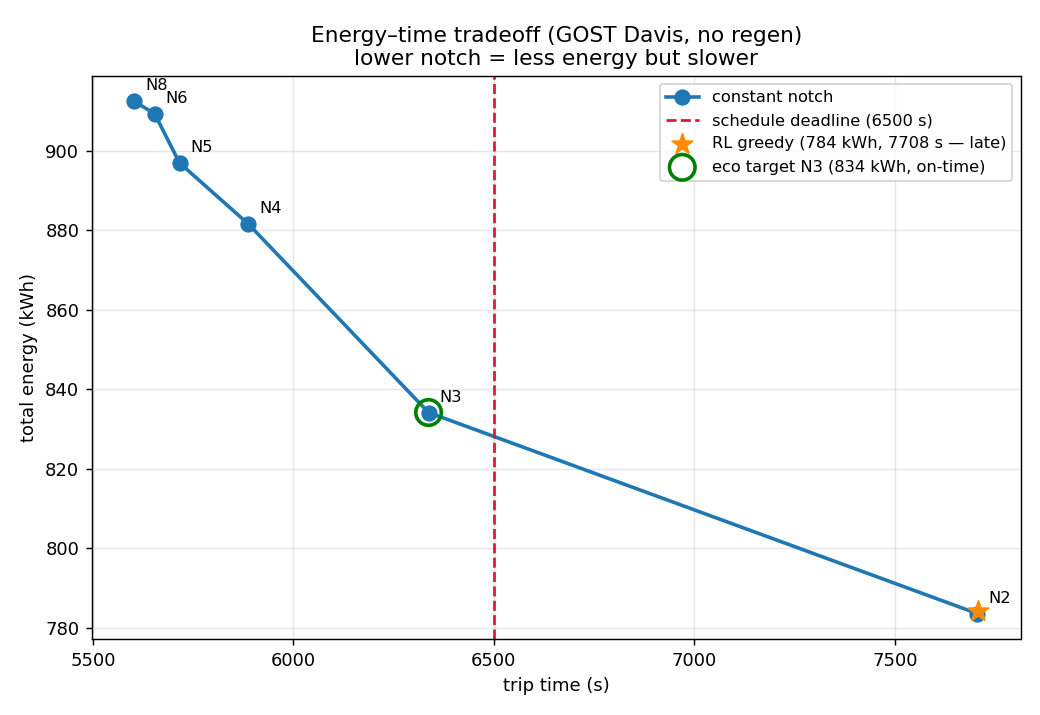
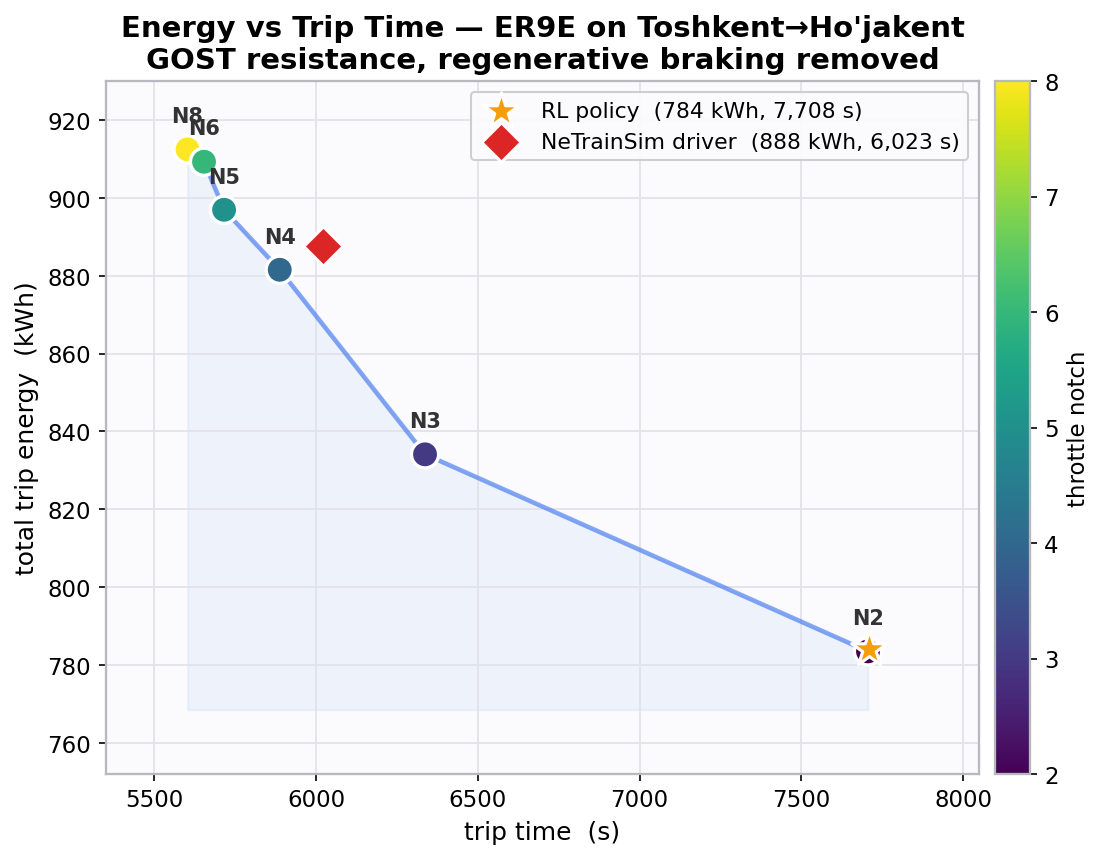
regenerating plots

diff --git a/rl/make_plots.py b/rl/make_plots.py
@@ -1,29 +1,34 @@
 """
-Generate summary plots for the train-energy RL project (current physics:
-GOST Davis + no regen). Outputs PNGs into results/plots/.
+Summary plots for the train-energy project (current physics: GOST Davis + no regen).
+Outputs PNGs into results/plots/.
 
-  1. energy_time_tradeoff.png  — constant-notch energy vs trip-time Pareto curve,
-     deadline, and where the RL greedy policy landed.
-  2. rl_policy_profile.png     — RL greedy policy: speed (vs speed limit), notch,
-     and track grade along the route.
-  3. training_curve.png        — test/best reward per epoch for the final run.
+  1. energy_time_tradeoff.png  — polished energy-vs-trip-time curve over constant
+     notches, with the RL greedy policy and NeTrainSim's native driver overlaid.
+  2. netrainsim_trajectory.png — the trajectory NeTrainSim itself produces (the data
+     its GUI plots): speed vs limit, notch, tractive/resistance forces, power,
+     cumulative energy and grade along the route.
+  3. rl_policy_profile.png     — RL greedy policy speed/notch/grade along the route.
+  4. training_curve.png        — test/best reward per epoch for the final run.
 
 Usage:
     source venv/bin/activate
     python rl/make_plots.py
 """
 import csv
+import glob
 import os
 import re
 
 import matplotlib
 matplotlib.use("Agg")
 import matplotlib.pyplot as plt
+from matplotlib.ticker import MultipleLocator
 import numpy as np
 
 _REPO = os.path.dirname(os.path.dirname(os.path.abspath(__file__)))
 LINKS = os.path.join(_REPO, "data", "netrainsim_v2", "linksFile_v2_fixed_speed.dat")
 PROFILE = os.path.join(_REPO, "results", "notch_profile.csv")
+NTS_GLOB = os.path.join(_REPO, "NeTrainSim-adjusted", "res", "trainTrajectory_*.csv")
 OUTDIR = os.path.join(_REPO, "results", "plots")
 os.makedirs(OUTDIR, exist_ok=True)
 
@@ -31,12 +36,32 @@ os.makedirs(OUTDIR, exist_ok=True)
 NOTCH = [8, 6, 5, 4, 3, 2]
 STEPS = [5603, 5654, 5716, 5888, 6337, 7706]
 ENERGY = [912.47, 909.28, 896.94, 881.53, 834.13, 783.52]
-DEADLINE = 6500
-RL_STEPS, RL_ENERGY = 7708, 784.16   # latest greedy eval (pace-penalty run)
+RL_STEPS, RL_ENERGY = 7708, 784.16       # RL greedy eval (pace-penalty run)
+
+# ── shared "advanced" styling ────────────────────────────────────────────────
+plt.rcParams.update({
+    "figure.facecolor": "white",
+    "axes.facecolor": "#fbfbfd",
+    "axes.edgecolor": "#b8b8c0",
+    "axes.linewidth": 1.1,
+    "axes.grid": True,
+    "grid.color": "#e3e3ea",
+    "grid.linewidth": 0.9,
+    "font.size": 11,
+    "font.family": "DejaVu Sans",
+    "axes.titlesize": 14,
+    "axes.titleweight": "bold",
+    "axes.labelsize": 12,
+    "axes.labelweight": "medium",
+    "legend.framealpha": 0.95,
+    "legend.edgecolor": "#cccccc",
+    "savefig.dpi": 150,
+    "savefig.bbox": "tight",
+})
+ACCENT, RLC, NTSC = "#2563eb", "#f59e0b", "#dc2626"
 
 
 def load_links():
-    """cumulative distance -> (speed_limit, grade_pct) along the route."""
     cum, spd, grade = [0.0], [], []
     with open(LINKS) as f:
         f.readline(); f.readline()
@@ -44,8 +69,7 @@ def load_links():
             p = line.split()
             if len(p) < 8:
                 continue
-            length = float(p[3]); speed = float(p[4]); g = float(p[6])
-            cum.append(cum[-1] + length); spd.append(speed); grade.append(g)
+            cum.append(cum[-1] + float(p[3])); spd.append(float(p[4])); grade.append(float(p[6]))
     return np.array(cum), np.array(spd), np.array(grade)
 
 
@@ -55,80 +79,135 @@ def load_profile():
         for row in csv.DictReader(f):
             speed.append(float(row["speed_mps"])); notch.append(int(row["notch"]))
     speed = np.array(speed)
-    dist = np.cumsum(speed)          # 1 s per row → travelled distance (m)
-    return dist, speed, np.array(notch)
+    return np.cumsum(speed), speed, np.array(notch)
+
+
+def load_nts():
+    files = sorted(glob.glob(NTS_GLOB), key=os.path.getmtime)
+    if not files:
+        return None
+    rows = list(csv.DictReader(open(files[-1])))
+    g = lambda k: np.array([float(r[k]) for r in rows])
+    return {
+        "dist": g("TravelledDistance_m") / 1000.0,
+        "speed": g("Speed_mps"),
+        "limit": g("LinkMaxSpeed_mps"),
+        "notch": g("FirstLocoNotchPosition"),
+        "tractive": g("tractiveForce_N") / 1000.0,
+        "resist": g("ResistanceForces_N") / 1000.0,
+        "power": g("CurrentUsedTractivePower_kw"),
+        "energy_cum": np.cumsum(g("EnergyConsumption_KWH")),
+        "grade": g("GradeAtTip_Perc"),
+        "steps": len(rows),
+    }
 
 
 def load_training(log_path):
-    epoch, test, best = [], [], []
+    e, t, b = [], [], []
     pat = re.compile(r"Epoch #(\d+): test_reward: (-?[0-9.]+).*best_reward: (-?[0-9.]+)")
-    with open(log_path) as f:
-        for line in f:
-            m = pat.search(line)
-            if m:
-                epoch.append(int(m.group(1))); test.append(float(m.group(2))); best.append(float(m.group(3)))
-    return np.array(epoch), np.array(test), np.array(best)
+    for line in open(log_path):
+        m = pat.search(line)
+        if m:
+            e.append(int(m.group(1))); t.append(float(m.group(2))); b.append(float(m.group(3)))
+    return np.array(e), np.array(t), np.array(b)
 
 
 def plot_tradeoff():
-    fig, ax = plt.subplots(figsize=(8, 5.5))
-    ax.plot(STEPS, ENERGY, "o-", color="#1f77b4", lw=2, ms=8, label="constant notch")
-    for n, s, e in zip(NOTCH, STEPS, ENERGY):
-        ax.annotate(f"N{n}", (s, e), textcoords="offset points", xytext=(6, 6), fontsize=9)
-    ax.axvline(DEADLINE, color="crimson", ls="--", lw=1.5, label=f"schedule deadline ({DEADLINE} s)")
-    ax.scatter([RL_STEPS], [RL_ENERGY], color="darkorange", s=140, marker="*",
-               zorder=5, label=f"RL greedy ({RL_ENERGY:.0f} kWh, {RL_STEPS} s — late)")
-    # highlight eco target (notch 3, the slowest still on-time)
-    ax.scatter([6337], [834.13], facecolors="none", edgecolors="green", s=200, lw=2,
-               zorder=5, label="eco target N3 (834 kWh, on-time)")
-    ax.set_xlabel("trip time (s)"); ax.set_ylabel("total energy (kWh)")
-    ax.set_title("Energy–time tradeoff (GOST Davis, no regen)\nlower notch = less energy but slower")
-    ax.grid(alpha=0.3); ax.legend(fontsize=9)
-    fig.tight_layout(); p = os.path.join(OUTDIR, "energy_time_tradeoff.png")
-    fig.savefig(p, dpi=130); plt.close(fig); return p
+    nts = load_nts()
+    fig, ax = plt.subplots(figsize=(9, 6))
+
+    # shaded region under the constant-notch frontier
+    ax.fill_between(STEPS, ENERGY, min(ENERGY) - 15, color=ACCENT, alpha=0.06, zorder=0)
+    ax.plot(STEPS, ENERGY, "-", color=ACCENT, lw=2.2, alpha=0.55, zorder=2)
+    sc = ax.scatter(STEPS, ENERGY, c=NOTCH, cmap="viridis", s=170, zorder=3,
+                    edgecolors="white", linewidths=1.6)
+    for n, s, en in zip(NOTCH, STEPS, ENERGY):
+        ax.annotate(f"N{n}", (s, en), textcoords="offset points", xytext=(0, 13),
+                    ha="center", fontsize=10, fontweight="bold", color="#333")
+    cbar = fig.colorbar(sc, ax=ax, pad=0.015); cbar.set_label("throttle notch", fontsize=11)
+
+    # RL greedy policy
+    ax.scatter([RL_STEPS], [RL_ENERGY], color=RLC, s=320, marker="*", zorder=5,
+               edgecolors="white", linewidths=1.5, label=f"RL policy  ({RL_ENERGY:.0f} kWh, {RL_STEPS:,} s)")
+    # NeTrainSim native driver
+    if nts:
+        nts_e = float(nts["energy_cum"][-1]); nts_s = nts["steps"]
+        ax.scatter([nts_s], [nts_e], color=NTSC, s=180, marker="D", zorder=5,
+                   edgecolors="white", linewidths=1.5,
+                   label=f"NeTrainSim driver  ({nts_e:.0f} kWh, {nts_s:,} s)")
+
+    ax.set_xlabel("trip time  (s)"); ax.set_ylabel("total trip energy  (kWh)")
+    ax.set_title("Energy vs Trip Time — ER9E on Toshkent→Ho'jakent\nGOST resistance, regenerative braking removed")
+    ax.legend(loc="upper right", fontsize=10.5)
+    ax.set_xlim(5350, 8050); ax.set_ylim(752, 930)
+    p = os.path.join(OUTDIR, "energy_time_tradeoff.png"); fig.savefig(p); plt.close(fig); return p
+
+
+def plot_netrainsim():
+    d = load_nts()
+    if d is None:
+        return None
+    x = d["dist"]
+    fig, ax = plt.subplots(5, 1, figsize=(12, 11), sharex=True,
+                           gridspec_kw={"height_ratios": [2, 1.2, 1.6, 1.4, 1.2]})
+    fig.suptitle(f"NeTrainSim trajectory — native driver  ({d['energy_cum'][-1]:.0f} kWh, {d['steps']:,} s, {x[-1]:.1f} km)",
+                 fontsize=15, fontweight="bold", y=0.995)
+
+    ax[0].plot(x, d["speed"], color=ACCENT, lw=1.1, label="train speed")
+    ax[0].plot(x, d["limit"], color=NTSC, lw=1.0, alpha=0.7, ls="--", label="speed limit")
+    ax[0].set_ylabel("speed (m/s)"); ax[0].legend(loc="upper right", fontsize=9.5)
+
+    ax[1].step(x, d["notch"], where="post", color="#7c3aed", lw=1.1)
+    ax[1].set_ylabel("notch"); ax[1].set_ylim(-0.5, 8.5); ax[1].yaxis.set_major_locator(MultipleLocator(2))
+
+    ax[2].plot(x, d["tractive"], color="#059669", lw=1.0, label="tractive force")
+    ax[2].plot(x, d["resist"], color="#b45309", lw=1.0, alpha=0.8, label="resistance")
+    ax[2].axhline(0, color="#999", lw=0.6); ax[2].set_ylabel("force (kN)"); ax[2].legend(loc="upper right", fontsize=9.5)
+
+    ax[3].plot(x, d["energy_cum"], color="#be123c", lw=1.6)
+    ax[3].fill_between(x, d["energy_cum"], color="#be123c", alpha=0.10)
+    ax[3].set_ylabel("cum. energy (kWh)")
+
+    ax[4].fill_between(x, d["grade"], color="#6b7280", alpha=0.55, step="mid")
+    ax[4].axhline(0, color="k", lw=0.6); ax[4].set_ylabel("grade (%)"); ax[4].set_xlabel("distance along route (km)")
+
+    fig.tight_layout(rect=[0, 0, 1, 0.985])
+    p = os.path.join(OUTDIR, "netrainsim_trajectory.png"); fig.savefig(p); plt.close(fig); return p
 
 
 def plot_profile():
     cum, spd_lim, grade = load_links()
     dist, speed, notch = load_profile()
-    fig, axes = plt.subplots(3, 1, figsize=(11, 8), sharex=True)
-
-    axes[0].plot(dist / 1000, speed, color="#1f77b4", lw=1, label="train speed")
-    axes[0].step(cum[1:] / 1000, spd_lim, where="post", color="crimson", lw=1, alpha=.7, label="speed limit")
+    fig, axes = plt.subplots(3, 1, figsize=(11, 8), sharex=True,
+                             gridspec_kw={"height_ratios": [2, 1.2, 1.2]})
+    axes[0].plot(dist / 1000, speed, color=ACCENT, lw=1, label="train speed")
+    axes[0].plot(cum[1:] / 1000, spd_lim, color=NTSC, lw=1, alpha=.7, ls="--", label="speed limit")
     axes[0].set_ylabel("speed (m/s)"); axes[0].legend(loc="upper right", fontsize=9)
-    axes[0].set_title(f"RL greedy policy along the route  ({RL_ENERGY:.0f} kWh, {RL_STEPS} s)")
-    axes[0].grid(alpha=0.3)
-
-    axes[1].step(dist / 1000, notch, where="post", color="darkorange", lw=1)
-    axes[1].set_ylabel("notch (0–8)"); axes[1].set_ylim(-0.5, 8.5); axes[1].grid(alpha=0.3)
-
-    axes[2].fill_between(cum[1:] / 1000, grade, color="gray", alpha=0.5, step="post")
-    axes[2].axhline(0, color="k", lw=0.6)
-    axes[2].set_ylabel("grade (%)"); axes[2].set_xlabel("distance along route (km)"); axes[2].grid(alpha=0.3)
-
-    fig.tight_layout(); p = os.path.join(OUTDIR, "rl_policy_profile.png")
-    fig.savefig(p, dpi=130); plt.close(fig); return p
+    axes[0].set_title(f"RL greedy policy along the route  ({RL_ENERGY:.0f} kWh, {RL_STEPS:,} s)")
+    axes[1].step(dist / 1000, notch, where="post", color=RLC, lw=1)
+    axes[1].set_ylabel("notch"); axes[1].set_ylim(-0.5, 8.5)
+    axes[2].fill_between(cum[1:] / 1000, grade, color="#6b7280", alpha=.5, step="mid")
+    axes[2].axhline(0, color="k", lw=0.6); axes[2].set_ylabel("grade (%)"); axes[2].set_xlabel("distance (km)")
+    fig.tight_layout(); p = os.path.join(OUTDIR, "rl_policy_profile.png"); fig.savefig(p); plt.close(fig); return p
 
 
 def plot_training():
-    logs = sorted(f for f in os.listdir(os.path.join(_REPO, "logs")) if f.startswith("train_run_") and f.endswith(".log"))
+    logs = sorted(glob.glob(os.path.join(_REPO, "logs", "train_run_*.log")), key=os.path.getmtime)
     if not logs:
         return None
-    log_path = os.path.join(_REPO, "logs", logs[-1])
-    epoch, test, best = load_training(log_path)
+    epoch, test, best = load_training(logs[-1])
     if len(epoch) == 0:
         return None
-    fig, ax = plt.subplots(figsize=(8, 5))
-    ax.plot(epoch, test, color="#1f77b4", lw=1, alpha=0.6, label="test reward (per epoch)")
-    ax.plot(epoch, best, color="green", lw=2, label="best reward (running)")
+    fig, ax = plt.subplots(figsize=(8.5, 5))
+    ax.plot(epoch, test, color=ACCENT, lw=1, alpha=0.55, label="test reward")
+    ax.plot(epoch, best, color="#059669", lw=2.2, label="best reward (running)")
     ax.set_xlabel("epoch"); ax.set_ylabel("episode reward")
-    ax.set_title(f"Training progress — {logs[-1]}\n(pace-penalty reward; stable, plateaus early)")
-    ax.grid(alpha=0.3); ax.legend(fontsize=9)
-    fig.tight_layout(); p = os.path.join(OUTDIR, "training_curve.png")
-    fig.savefig(p, dpi=130); plt.close(fig); return p
+    ax.set_title(f"Training progress — {os.path.basename(logs[-1])}")
+    ax.legend(loc="lower right", fontsize=10)
+    p = os.path.join(OUTDIR, "training_curve.png"); fig.savefig(p); plt.close(fig); return p
 
 
 if __name__ == "__main__":
-    for fn in (plot_tradeoff, plot_profile, plot_training):
+    for fn in (plot_tradeoff, plot_netrainsim, plot_profile, plot_training):
         out = fn()
         print(f"wrote {out}" if out else f"skipped {fn.__name__} (missing data)")
